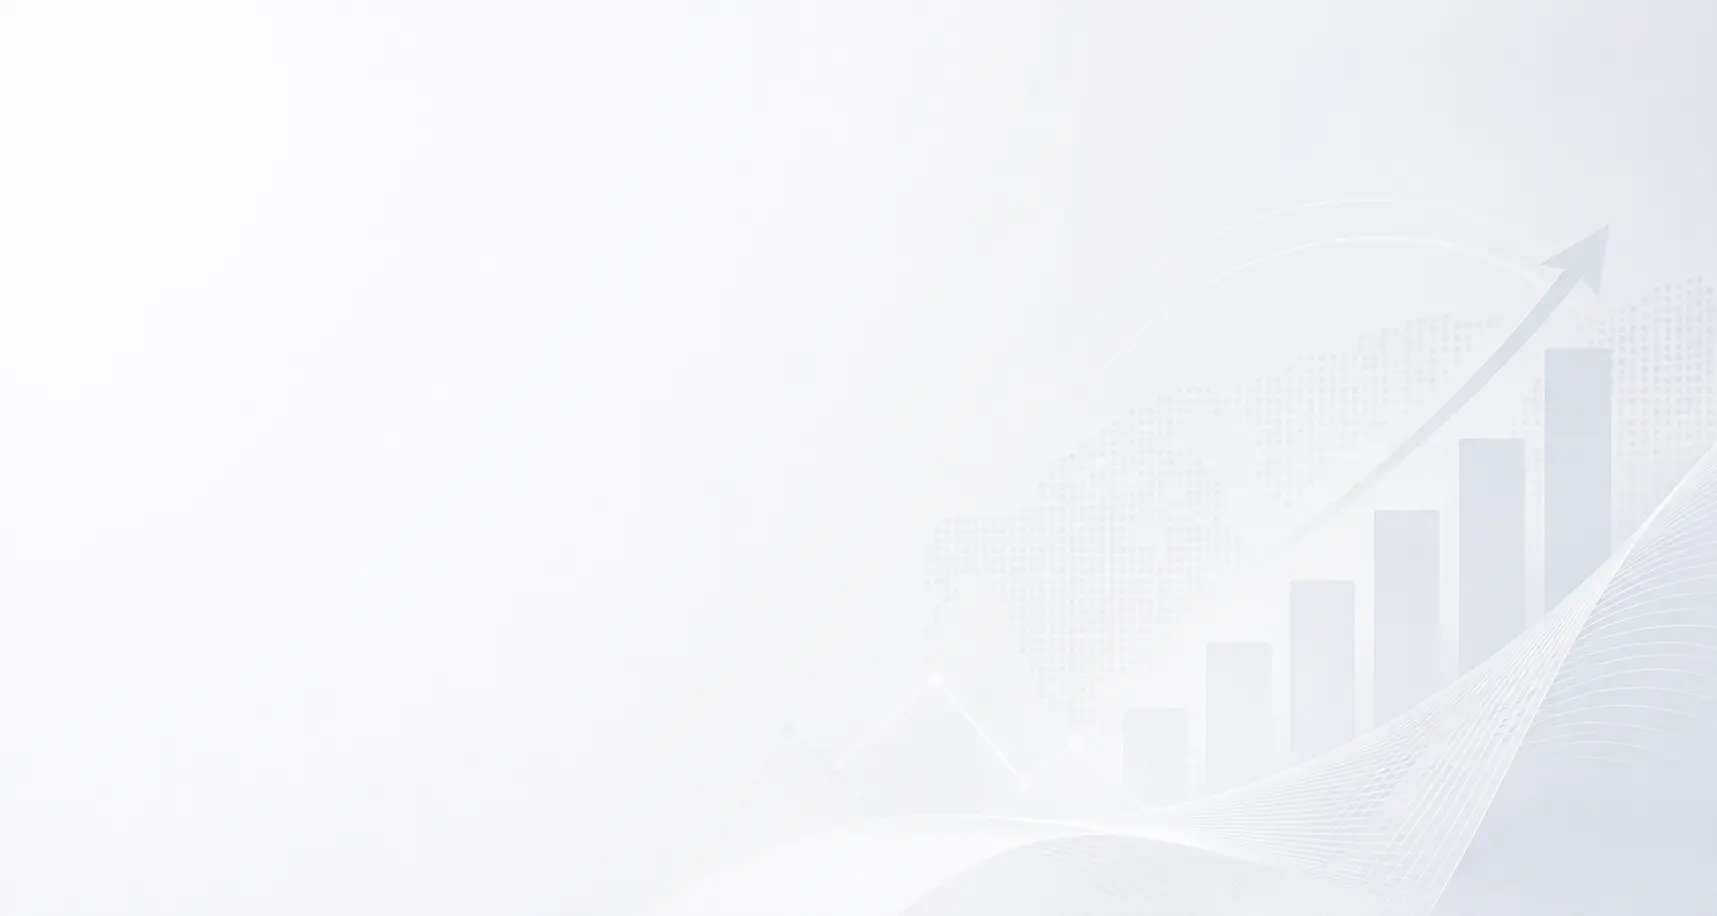
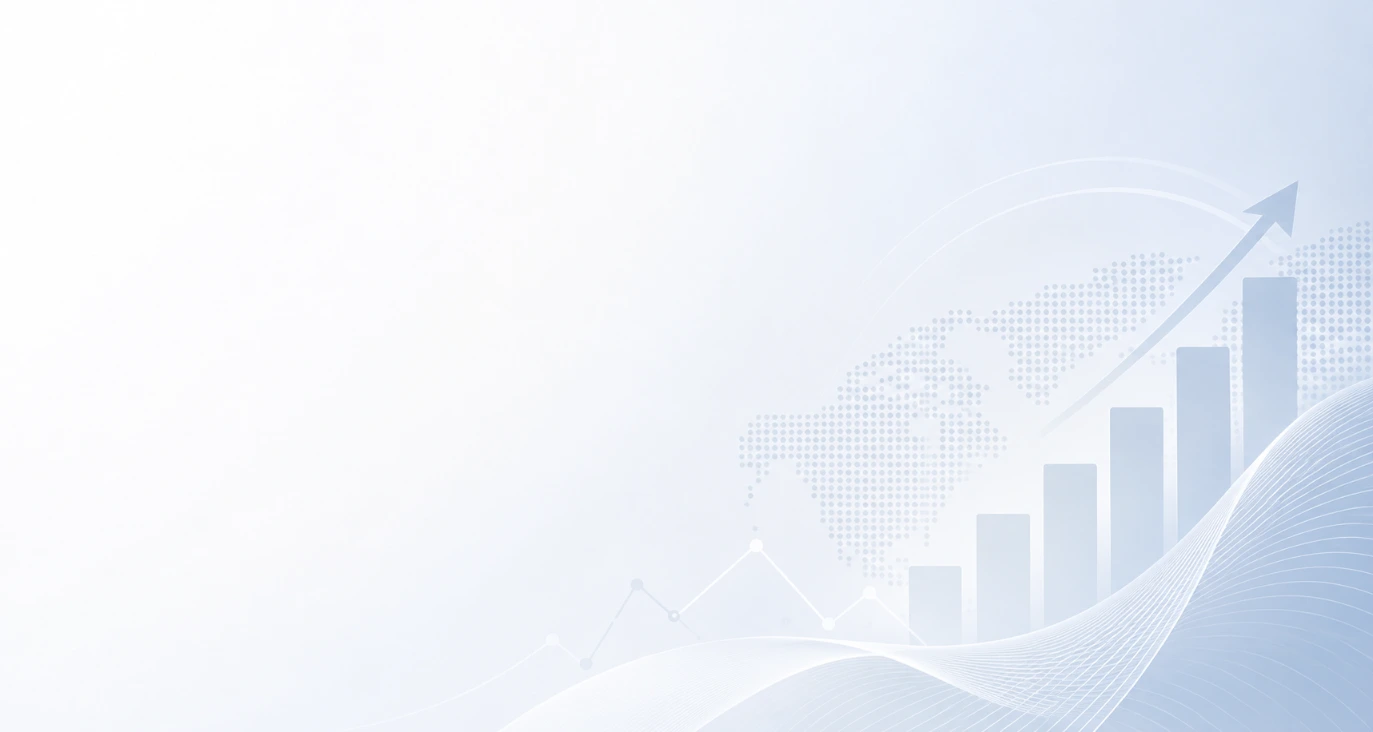
Add a background image for both ar and fr

diff --git a/src/components/Hero.tsx b/src/components/Hero.tsx
@@ -15,11 +15,16 @@ const Hero: React.FC<HeroProps> = ({
   const lang = i18n.language as "fr" | "ar";
   const isRTL = lang === "ar";
 
+  const bgImage = isRTL
+    ? "/hero_background_arab.webp"
+    : "/hero-background.webp";
+
   return (
     <section
       id="hero"
       dir={isRTL ? "rtl" : "ltr"}
-      className="relative min-h-[100dvh] bg-white flex items-center font-body overflow-hidden"
+      /* min-h-[calc(100dvh-4rem)] soustrait la hauteur du header (ex: 64px / 4rem ou 80px / 5rem) */
+      className="relative min-h-[calc(100dvh-4rem)] lg:min-h-[calc(100dvh-5rem)] bg-white flex items-center font-body overflow-hidden"
       aria-label={t("hero.badge")}
     >
       {/* =========================================================
@@ -36,36 +41,31 @@ const Hero: React.FC<HeroProps> = ({
           duration-500
         "
         style={{
-          backgroundImage: "url('/hero-background.webp')",
-
-          // Desktop:
-          // L'image conserve sa proportion et reste orientée vers la droite.
-          backgroundSize: "auto 100%",
-          backgroundPosition: "right center",
+          backgroundImage: `url('${bgImage}')`,
+          backgroundSize: "cover",
+          backgroundPosition: isRTL ? "left top" : "right top",
         }}
       />
 
       {/* =========================================================
           READABILITY OVERLAY
-          Keeps the left side extremely clean for the typography.
           ========================================================= */}
       <div
         aria-hidden="true"
-        className="
+        className={`
           absolute
           inset-0
           pointer-events-none
-          bg-gradient-to-r
-          from-white
-          via-white/95
-          to-white/10
-        "
+          ${
+            isRTL
+              ? "bg-gradient-to-l from-white via-white/95 to-white/10"
+              : "bg-gradient-to-r from-white via-white/95 to-white/10"
+          }
+        `}
       />
 
       {/* =========================================================
           MOBILE OVERLAY
-          On small screens the illustration moves down and becomes
-          much more subtle so it never competes with the content.
           ========================================================= */}
       <div
         aria-hidden="true"
@@ -86,17 +86,17 @@ const Hero: React.FC<HeroProps> = ({
       {/* =========================================================
           CONTENT
           ========================================================= */}
-      <div className="relative z-10 w-full max-w-7xl mx-auto px-4 sm:px-10 lg:px-16 py-10 sm:py-20 lg:py-28 flex flex-col justify-between">
+      <div className="relative z-10 w-full max-w-7xl mx-auto px-4 sm:px-10 lg:px-16 py-8 sm:py-16 lg:py-20 flex flex-col justify-between">
         <div
-          className={`max-w-5xl ${isRTL
-              ? "mr-0 ml-auto text-right"
-              : "ml-0 mr-auto text-left"
-            }`}
+          className={`max-w-5xl ${
+            isRTL ? "mr-0 ml-auto text-right" : "ml-0 mr-auto text-left"
+          }`}
         >
           {/* Eyebrow */}
           <div
-            className={`flex items-center gap-3 mb-4 sm:mb-6 ${isRTL ? "flex-row-reverse justify-end" : ""
-              }`}
+            className={`flex items-center gap-3 mb-4 sm:mb-6 ${
+              isRTL ? "flex-row-reverse justify-end" : ""
+            }`}
           >
             <span className="w-8 sm:w-10 h-[2px] bg-[#F97316]" />
 
@@ -154,9 +154,10 @@ const Hero: React.FC<HeroProps> = ({
                   h-4
                   transition-transform
                   duration-200
-                  ${isRTL
-                    ? "rotate-180 group-hover:-translate-x-1"
-                    : "group-hover:translate-x-1"
+                  ${
+                    isRTL
+                      ? "rotate-180 group-hover:-translate-x-1"
+                      : "group-hover:translate-x-1"
                   }
                 `}
                 fill="none"
